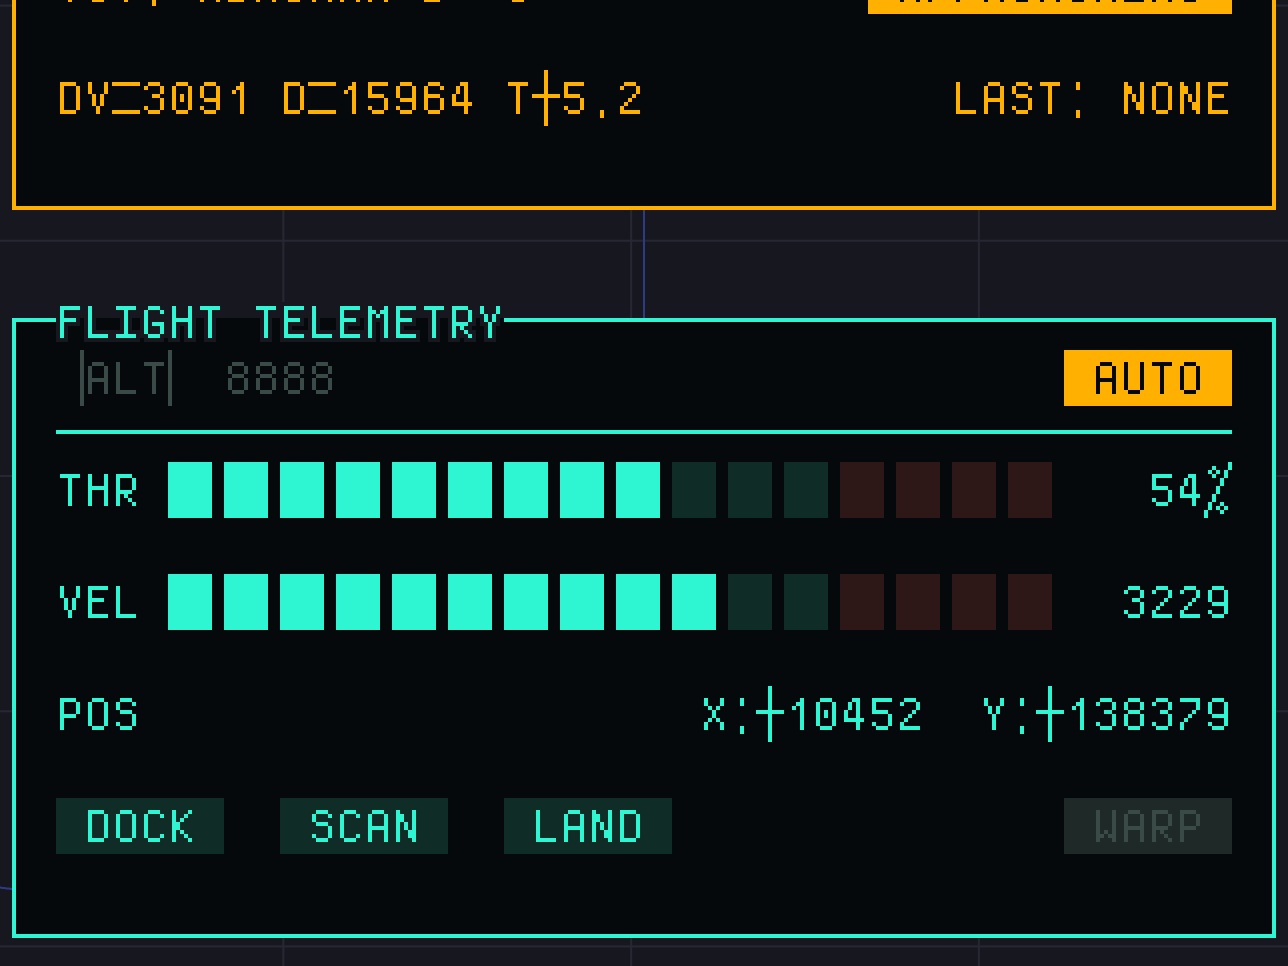
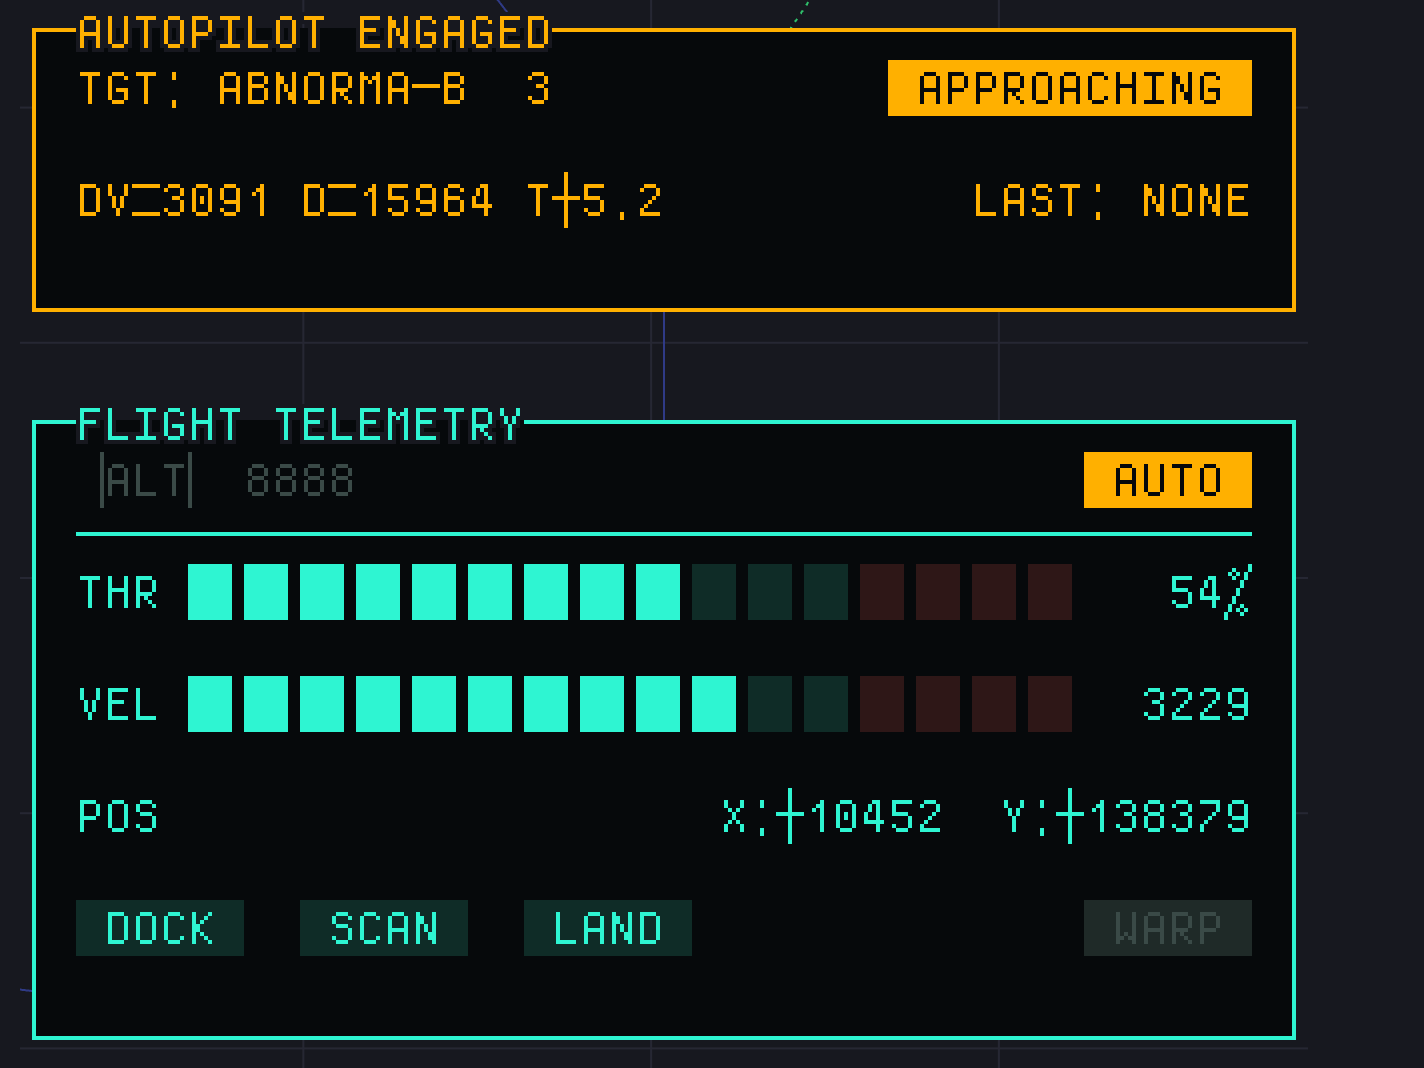
Entry: describe the HTML renderer now on main; recapture the HUD; tag design

Changed region(s): [[0.0, 0.2484, 0.9938, 0.9938], [0.0, 0.0, 0.9938, 0.2795], [0.0, 0.2484, 0.0311, 0.2795]]

diff --git a/.artifact/system-ascii.md b/.artifact/system-ascii.md
@@ -2,27 +2,24 @@
 title: System ASCII
 date: 2026-11
 category: system
-tags: [web]
+tags: [web, design]
 url: https://arfct.github.io/system-ascii/
 links:
   source: https://github.com/arfct/system-ascii
 media:
   - src: telemetry.png
-    caption: The flight telemetry panel of the preview's HUD in the 7×14 face at scale 2, with two meters, an amber toggle that is on and a row of buttons, the last of them disabled
-    alt: Pixel-font text in cyan on near black inside a thin cyan frame titled Flight Telemetry, with two rows of square meter segments labelled THR and VEL, an amber AUTO chip, and buttons reading DOCK, SCAN, LAND and a dimmed WARP
+    caption: The autopilot and flight telemetry panels of the preview's HUD in the 7×14 face at scale 2; the lower one has two meters, an amber toggle that is on and a row of buttons, the last of them disabled
+    alt: Pixel-font text on near black in two thin frames, the upper one amber and titled Autopilot Engaged, the lower one cyan and titled Flight Telemetry, with two rows of square meter segments labelled THR and VEL, an amber AUTO chip, and buttons reading DOCK, SCAN, LAND and a dimmed WARP
   - src: hud-landroid.png
     caption: The whole HUD in the second theme, three panels over a stand-in for the game's world
     alt: Three framed panels of pixel-font text in lavender and peach on dark slate, titled System, Autopilot Engaged and Flight Telemetry, over faint grid lines and orbit curves
-  - src: hit-areas.png
-    caption: The same panel with Hit areas switched on, each dashed outline marking a native button laid over the canvas
-    alt: The cyan Flight Telemetry panel with pink dashed rectangles around the AUTO chip and the DOCK, SCAN, LAND and WARP buttons
 unconfirmed: [date]
 ---
 
-The unit of System ASCII is the character cell. Panels, badges, rules, meters, readouts and buttons are laid out in whole cells of the jgs pixel font and drawn to a canvas, with each font pixel on a whole number of device pixels. The system began as the heads-up display for a game, exo*space, and was moved into a repository of its own to serve other products.
+The unit of System ASCII is the character cell. Panels, badges, rules, meters, readouts and buttons are laid out in whole cells of the jgs pixel font and drawn as positioned HTML elements, with every edge on a whole device pixel. The system began as the heads-up display for a game, exo*space, and was moved into a repository of its own to serve other products.
 
-The font comes in three 1-bit faces, with cells of 5×10, 7×14 and 9×18 pixels, and one vector face that is antialiased at any scale. The largest bitmap face has no box-drawing characters, so its frames are built from one-pixel strokes. Each button has an invisible native button laid over the canvas, which takes presses and keyboard focus; the third image outlines them.
+The font comes in three 1-bit faces, with cells of 5×10, 7×14 and 9×18 pixels, and one vector face that is antialiased at any scale. The largest bitmap face has no box-drawing characters, so its frames are built from one-pixel strokes. Each button on screen is a native button element, so presses, keyboard focus and the accessibility tree are the browser's.
 
-Two themes assign colours by role. Of the two motions, one is a flicker of eight on-and-off steps over 0.9 seconds, taken from the game's console, and the other reveals the cells one by one in reading order; with reduced motion set on the device, every cell is drawn at rest. The preview page draws a flight HUD, with pickers for the face, scale, theme and motion among others. The web renderer is the only one. Jgs Font is by Adel Faure, in tribute to Joan G. Stark, and comes from the Velvetyne type foundry.
+Two themes assign colors by role. Of the two motions, one is a flicker of eight on-and-off steps over 0.9 seconds, taken from the game's console, and the other reveals the cells one by one in reading order; with reduced motion set on the device, every cell is drawn at rest. The preview page draws a flight HUD, with pickers for the face, scale, theme and motion among others. The canvas renderer that came first is deprecated and kept as the pixel reference for the bitmap faces. Jgs Font is by Adel Faure, in tribute to Joan G. Stark, and comes from the Velvetyne type foundry.
 
-JavaScript, Canvas 2D. 2026.
+JavaScript, HTML, CSS. 2026.
